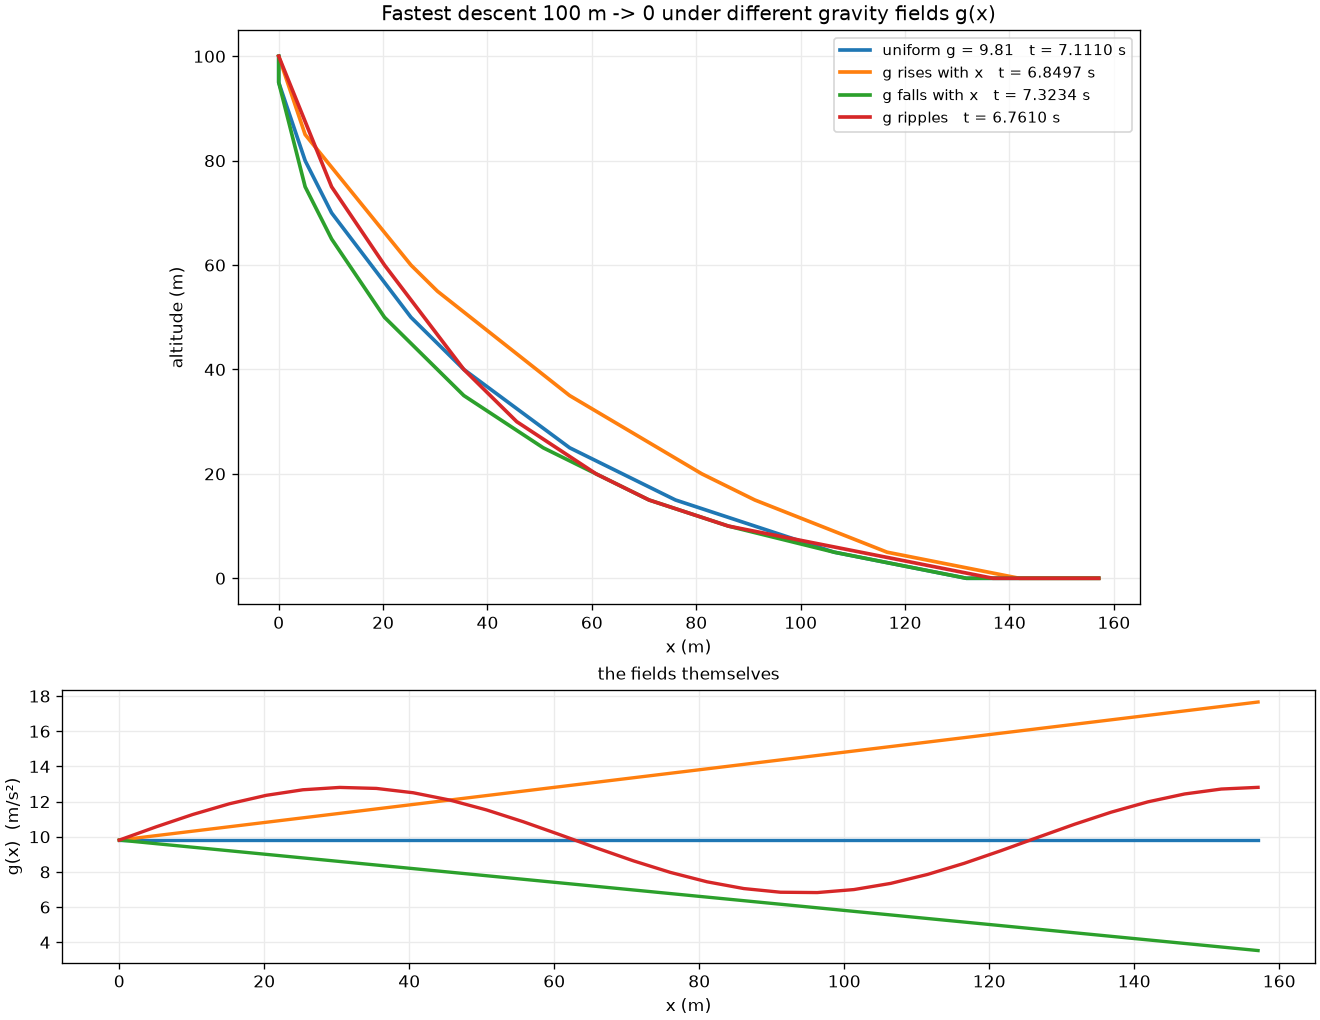
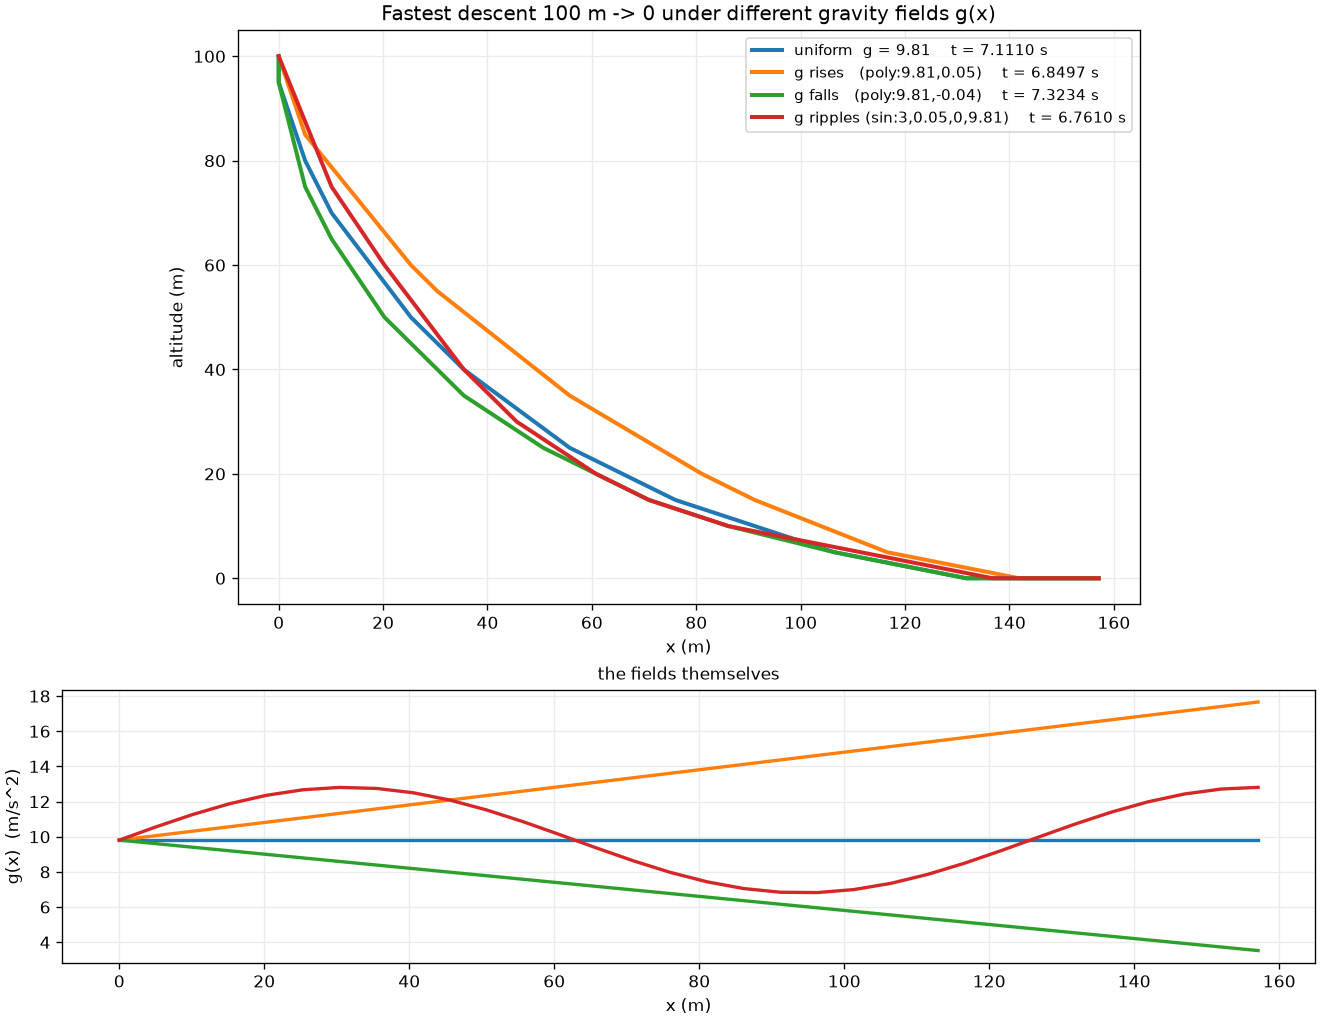
Add variable-gravity worked examples to the README
Two runnable examples under the variable-gravity section, each with its
figure and the exact commands to reproduce it:

1. field shape moves the descent -- uniform / linearly rising / linearly
   falling / sinusoidal g(x) on the default 100 m -> 0 problem (the
   existing gravity-fields figure, now with per-field CLI commands).
2. the full path dipping below the target -- a longer 200 m -> 100 m run
   over x = 250 m with --depth-below headroom, so the path is no longer
   clipped at the endpoint altitude and the dip-and-climb is visible.

Both figures are regenerated by a new gravity_examples.py, referenced
from the README so the plots stay reproducible.

Also fixes plot_curve to skip the cycloid reference (curve, title gap,
and the sqrt(2g*drop) speed line) when the field is non-uniform: the
cycloid is the uniform-gravity optimum only, so drawing it against a
variable field asserted a comparison that does not hold.  The subtitle
now reports the field and the searched result instead.

diff --git a/gravity_examples.py b/gravity_examples.py
@@ -1,0 +1,115 @@
+"""Regenerate the variable-gravity comparison figures used in the README.
+
+    python gravity_examples.py
+
+Writes two PNGs into docs/images/:
+
+- gravity-fields.png : four fields (uniform, rising, falling, oscillating) on
+  the default 100 m -> 0 problem, showing how the field's *shape* moves where
+  the descent happens.
+- gravity-dip.png    : three fields on a longer 200 m -> 100 m problem with
+  headroom below the target, so the paths dip past the endpoint and climb back.
+
+Each curve is a single ``solve`` call; the figures just overlay them.  The
+per-field command-line equivalents are listed in the README.
+"""
+
+from __future__ import annotations
+
+import pathlib
+
+import matplotlib
+
+matplotlib.use("Agg")  # write files, no display
+import matplotlib.pyplot as plt  # noqa: E402
+import numpy as np  # noqa: E402
+
+from brachistochrone import Config, solve  # noqa: E402
+
+OUT = pathlib.Path(__file__).resolve().parent / "docs" / "images"
+
+
+def _descent(ax, sol, colour, label):
+    """Overlay one solution's physical (x, altitude) path on ``ax``."""
+    ixt = sol.shape[0] - 1
+    t, _ = sol.best_at(ixt, sol.iy_target)
+    seg = sol.path_segments(ixt, sol.iy_target)
+    xs = np.append(seg["x1"], seg["x2"][-1])
+    ys = np.append(seg["y1"], seg["y2"][-1])
+    ax.plot(xs, ys, color=colour, lw=2.4, label=label.format(
+        t=t, v=seg["v2"][-1], dip=sol.config.y_end - ys.min(),
+        L=seg["length"].sum()))
+    return t, seg
+
+
+def fields_figure() -> pathlib.Path:
+    """Uniform / rising / falling / oscillating on the default problem."""
+    cases = [
+        ("uniform  g = 9.81",        "const:9.81",           "#1f77b4"),
+        ("g rises   (poly:9.81,0.05)",  "poly:9.81,0.05",    "#ff7f0e"),
+        ("g falls   (poly:9.81,-0.04)", "poly:9.81,-0.04",   "#2ca02c"),
+        ("g ripples (sin:3,0.05,0,9.81)", "sin:3,0.05,0,9.81", "#d62728"),
+    ]
+    fig, (ax1, ax2) = plt.subplots(2, 1, figsize=(11, 8.5),
+                                   height_ratios=(2.1, 1.0), constrained_layout=True)
+    for name, spec, c in cases:
+        sol = solve(Config(gravity_spec=spec, x_step=5.0, y_step=5.0))
+        _descent(ax1, sol, c, name + "    t = {t:.4f} s")
+        ax2.plot(sol.x, sol.field.g, color=c, lw=2)
+    ax1.set_xlabel("x (m)"); ax1.set_ylabel("altitude (m)"); ax1.set_aspect("equal")
+    ax1.grid(True, color="0.92"); ax1.legend(fontsize=9)
+    ax1.set_title("Fastest descent 100 m -> 0 under different gravity fields g(x)")
+    ax2.set_xlabel("x (m)"); ax2.set_ylabel("g(x)  (m/s^2)")
+    ax2.grid(True, color="0.92"); ax2.set_title("the fields themselves", fontsize=10)
+    out = OUT / "gravity-fields.png"
+    fig.savefig(out, dpi=120)
+    plt.close(fig)
+    return out
+
+
+def dip_figure() -> pathlib.Path:
+    """Longer problem with headroom below the target, so paths dip and climb."""
+    H, YE, XMAX, XS, YS, DEPTH, TOL = 200.0, 100.0, 250.0, 8.0, 8.0, 30.0, 3.0
+    a = (9.81 - 1.0) / XMAX**2
+    cases = [
+        ("uniform  g = 9.81",        "const:9.81",            "#1f77b4"),
+        (f"g = 9.81 - {a:.2e}*x^2",  f"poly:9.81,0,{-a:.6g}", "#d62728"),
+        ("g = 9.81*e^(-0.01*x^1.1)", "exp:9.81,1.1,0.01,0",   "#2ca02c"),
+    ]
+    fig, (ax1, ax2) = plt.subplots(2, 1, figsize=(13, 9.5),
+                                   height_ratios=(2.5, 1.0), constrained_layout=True)
+    floor = YE
+    for name, spec, c in cases:
+        sol = solve(Config(h=H, y_end=YE, x_max=XMAX, x_step=XS, y_step=YS,
+                           depth_below=DEPTH, gravity_spec=spec, energy_tol=TOL))
+        _descent(ax1, sol, c,
+                 name + "    t = {t:.3f} s,  dip = {dip:.1f} m,  v_end = {v:.1f} m/s")
+        ax2.plot(sol.x, sol.field.g, color=c, lw=2.2)
+        floor = float(sol.y[-1])
+    ax1.axhline(YE, color="0.4", ls="--", lw=1.3, zorder=1)
+    ax1.text(XMAX, YE + 2, "target altitude 100 m", ha="right", va="bottom",
+             fontsize=9, color="0.35")
+    ax1.plot([0], [H], marker="o", ms=8, mfc="white", mec="black", zorder=5)
+    ax1.plot([XMAX], [YE], marker="s", ms=8, mfc="white", mec="black", zorder=5)
+    ax1.set_xlabel("x (m)"); ax1.set_ylabel("altitude (m)"); ax1.set_aspect("equal")
+    ax1.grid(True, color="0.92"); ax1.legend(fontsize=9, loc="upper right")
+    ax1.set_xlim(-6, XMAX + 6); ax1.set_ylim(floor - 3, H + 5)
+    ax1.set_title("Fastest descent (0, 200) -> (250, 100)  —  "
+                  "paths dip below the target and climb back")
+    ax2.set_ylim(0, 11); ax2.set_xlabel("x (m)"); ax2.set_ylabel("g(x)  (m/s^2)")
+    ax2.grid(True, color="0.92"); ax2.set_title("the gravity fields", fontsize=10)
+    out = OUT / "gravity-dip.png"
+    fig.savefig(out, dpi=120)
+    plt.close(fig)
+    return out
+
+
+def main() -> int:
+    OUT.mkdir(parents=True, exist_ok=True)
+    for path in (fields_figure(), dip_figure()):
+        print(f"wrote {path}")
+    return 0
+
+
+if __name__ == "__main__":
+    raise SystemExit(main())

diff --git a/plot_states.py b/plot_states.py
@@ -271,10 +271,14 @@ def plot_curve(sol, target_x: float | None = None, show_samples: bool = True):
     )
 
     # --- continuous reference ------------------------------------------------
-    cx, cdrop = cycloid_curve(x_end, cfg.drop)
-    t_ref, arc_ref = analytic_brachistochrone(x_end, cfg.drop, cfg.g)
-    ax.plot(cx, cfg.h - cdrop, color="0.35", linewidth=1.6, linestyle="--",
-            zorder=2, label=f"continuous cycloid  ({t_ref:.4f} s)")
+    # The cycloid is the optimum only for uniform gravity; drawing it against a
+    # variable field would assert a comparison that does not hold.
+    uniform_field = sol.field is None or sol.field.uniform
+    if uniform_field:
+        cx, cdrop = cycloid_curve(x_end, cfg.drop)
+        t_ref, arc_ref = analytic_brachistochrone(x_end, cfg.drop, cfg.g)
+        ax.plot(cx, cfg.h - cdrop, color="0.35", linewidth=1.6, linestyle="--",
+                zorder=2, label=f"continuous cycloid  ({t_ref:.4f} s)")
     ax.plot([0.0, x_end], [cfg.h, cfg.y_end], color="0.6", linewidth=1.2,
             linestyle=":", zorder=1, label="straight chord (slower)")
 
@@ -289,11 +293,17 @@ def plot_curve(sol, target_x: float | None = None, show_samples: bool = True):
     ax.set_ylabel("altitude (m)")
     ax.set_aspect("equal", adjustable="box")
     ax.grid(True, color="0.9")
+    if uniform_field:
+        subtitle = (f"discrete {t_total:.4f} s over {seg['length'].sum():.2f} m   |   "
+                    f"cycloid {t_ref:.4f} s over {arc_ref:.2f} m   |   "
+                    f"gap {(t_total - t_ref) / t_ref:+.2%}")
+    else:
+        subtitle = (f"{sol.field.describe()}\n"
+                    f"discrete {t_total:.4f} s over {seg['length'].sum():.2f} m, "
+                    f"v_end {seg['v2'][-1]:.2f} m/s")
     ax.set_title(
         f"Minimum-time descent  (0, {cfg.h:g})  ->  ({x_end:.2f}, {cfg.y_end:g})\n"
-        f"discrete {t_total:.4f} s over {seg['length'].sum():.2f} m   |   "
-        f"cycloid {t_ref:.4f} s over {arc_ref:.2f} m   |   "
-        f"gap {(t_total - t_ref) / t_ref:+.2%}",
+        + subtitle,
         fontsize=11,
     )
     ax.legend(loc="lower left", fontsize=9, framealpha=0.9)
@@ -302,8 +312,9 @@ def plot_curve(sol, target_x: float | None = None, show_samples: bool = True):
     t_nodes = np.concatenate([seg["t_start"], [seg["t_end"][-1]]])
     v_nodes = np.concatenate([seg["v1"], [seg["v2"][-1]]])
     ax2.plot(t_nodes, v_nodes, color="#1f77b4", linewidth=2.0, label="speed at chord joints")
-    ax2.axhline(math.sqrt(cfg.v0**2 + 2 * cfg.g * cfg.drop), color="0.5",
-                linestyle="--", linewidth=1.2, label="sqrt(v0² + 2g·drop)")
+    if uniform_field:
+        ax2.axhline(math.sqrt(cfg.v0**2 + 2 * cfg.g * cfg.drop), color="0.5",
+                    linestyle="--", linewidth=1.2, label="sqrt(v0² + 2g·drop)")
     ax2.set_xlabel("t (s)")
     ax2.set_ylabel("speed (m/s)")
     ax2.grid(True, color="0.9")

diff --git a/README.md b/README.md
@@ -391,14 +391,55 @@ target altitude — marked by the dashed rectangle.
 
 ```bash
 python brachistochrone.py --gravity-func "poly:9.81,0.05"
-python plot_states.py --gravity-json gravity.json --curve
+python plot_states.py --gravity-func "exp:9.81,1.1,0.01,0" --x-max 250 --curve
 ```
+
+### Worked example 1 — field shape moves the descent
 
 ![Descent under different gravity fields](docs/images/gravity-fields.png)
 
 The curves respond the way physics demands. Where `g` **rises** with x the path
 stays high longer, saving its drop for where gravity pays best; where `g`
-**falls** it dives early to bank energy while gravity is still strong.
+**falls** it dives early to bank energy while gravity is still strong; a gentle
+**ripple** nudges the path toward each local peak of `g`.
+
+Each curve is one solve; the figure overlays them. The per-field commands:
+
+```bash
+python brachistochrone.py --gravity-func "const:9.81"        --x-step 5 --y-step 5
+python brachistochrone.py --gravity-func "poly:9.81,0.05"    --x-step 5 --y-step 5   # g rises
+python brachistochrone.py --gravity-func "poly:9.81,-0.04"   --x-step 5 --y-step 5   # g falls
+python brachistochrone.py --gravity-func "sin:3,0.05,0,9.81" --x-step 5 --y-step 5   # g ripples
+```
+
+### Worked example 2 — the full path, dipping below the target
+
+![Full paths dipping below the target](docs/images/gravity-dip.png)
+
+Falling **200 m → 100 m** over a long `x = 250 m`, with grid headroom below the
+target so the path is not clipped at the endpoint altitude. Because 250 m is
+well past the geometric bound (`π·50 ≈ 157` for a 100 m drop), the fastest route
+**dips below the 100 m target and climbs back** — the extra depth buys speed that
+more than pays for the climb, since the track is frictionless. The decaying field
+(green) dives hardest and earliest, cashing in its drop while `g` is still large.
+
+```bash
+# one field of the three; --depth-below opens room beneath the target for the dip
+python brachistochrone.py --gravity-func "exp:9.81,1.1,0.01,0" \
+    --height 200 --end-altitude 100 --x-max 250 \
+    --x-step 8 --y-step 8 --depth-below 30 --energy-tol 3
+```
+
+`--depth-below 30` gives the search 30 m beneath the target to work in;
+`--energy-tol 3` merges near-equal-energy labels, needed because variable
+gravity **and** climbing together multiply the label sets (at finer steps the
+search trips its own label guard — see [Caveats](#caveats)).
+
+Both figures are regenerated by one script:
+
+```bash
+python gravity_examples.py      # writes docs/images/gravity-fields.png and gravity-dip.png
+```
 
 ### This breaks the conservation shortcut
 
@@ -565,6 +606,10 @@ For accurate dip *geometry* rather than dip *timing*, refine:
 ```
 brachistochrone.py        solver, state space, analytic references, CLI
 plot_states.py            2D curve and 3D state-space plots
-test_brachistochrone.py   62 tests
+gravity.py                variable gravity fields: specs, JSON, chord work
+make_gravity_json.py      generate a gravity table matching the solver grid
+gravity_examples.py       regenerate the two variable-gravity README figures
+test_brachistochrone.py   solver tests
+test_gravity.py           variable-gravity tests
 docs/images/              figures used by this README
 ```
